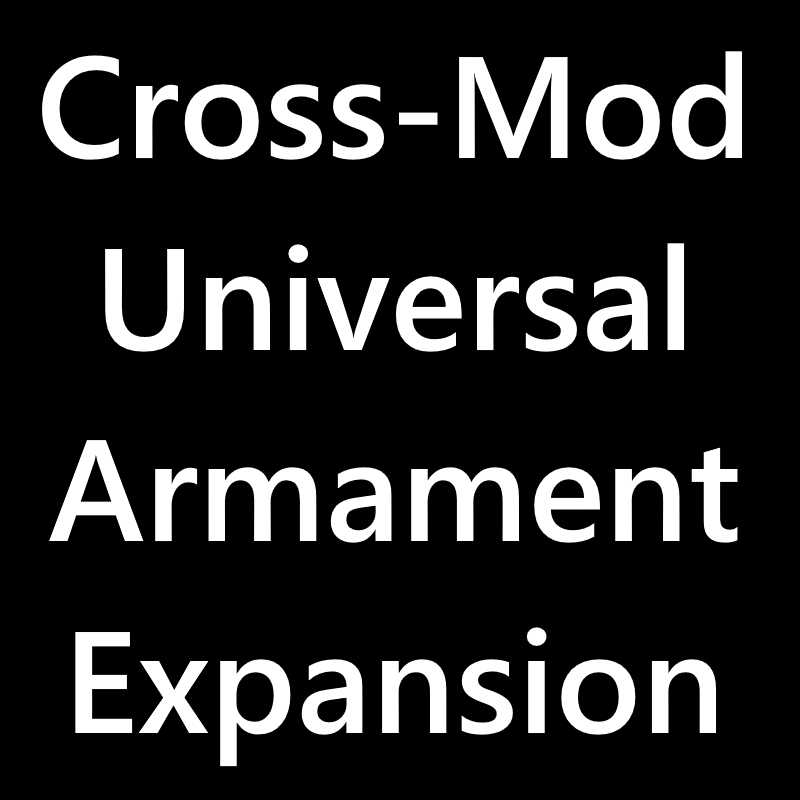
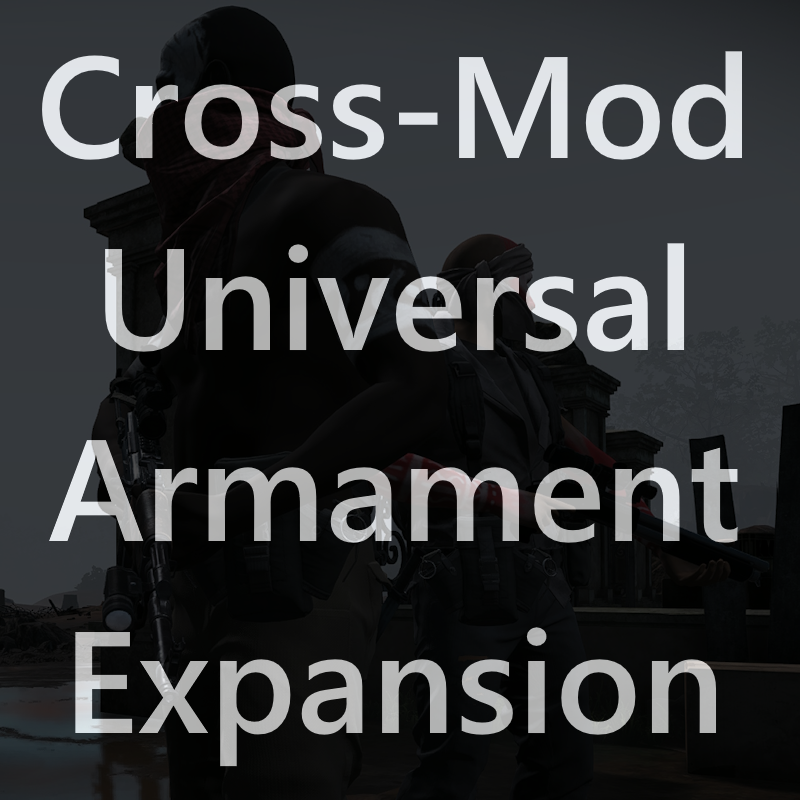
Update Preview image and Description

diff --git a/steamDescription.html b/steamDescription.html
@@ -13,24 +13,24 @@ The goal of this modification is to be [b]compatible[/b] with other modification
 [h2]Featuers:[/h2]
 [list]
     [*][b]Enemies get new weapon and armor of similar strength[/b]
-    [*][b]Weapons and Armor from other modifications are automatically added to pool of avaiable wepons[/b](e.g. Tons of Guns or Masters of War)
-    [*][b]Robust attachements system. Weapons are granted attachements matching adjusted enemy level. At higher level enemeis will have more and more powerful attachements[/b]
+    [*][b]Weapons and Armor from other modifications are automatically added to the pool of available weapons[/b](e.g. Tons of Guns or Masters of War)
+    [*][b]Robust attachements system. Weapons are granted attachments matching adjusted enemy level. At higher level, enemies will have more and more powerful attachments [/b]
     [*][b]Works with old saves, can be disabled at anypoint[/b]
     [*][b][Configuration option] Strength of new armaments can be adjusted[/b]
-    [*][b]Armaments condition (how much they are damaged) matches the condition of orginal loadout[/b]
-    [*][b]Mod uses drop chnace logic from base game[/b](Most mods that modife drop chnace are compatible)
+    [*][b]Armaments condition (how much they are damaged) matches the condition of the original loadout[/b]
+    [*][b]Mod uses drop chance logic from base game[/b](Most mods that modify drop chance are compatible)
     [*][b][Configuration option] Enemies get extra Handgun[/b](Usefull for integration with mods that change Handgun logic e.g. Rato's Overhaul)
     [*][b][Configuration option] Enemies get extra Grenades[/b]
-    [*][b]Night granades(flares etc) are only distributed during a night and in underground sectors[/b]
+    [*][b]Night grenades(flares etc) are only distributed during a night and in underground sectors[/b]
     [*][b]Heavy Weapons are distributed based on ammunition type[/b](RocketMan still shoots rockets, Montar Enemy still use Montar-like weapons)
-    [*][b]Mod does not affect unique armaments[/b](e.g.[spoiler] Pieree won't lose his unique machete [/spoiler])
+    [*][b]Mod does not affect unique armaments[/b](e.g.[spoiler] Pierre won't lose his unique machete [/spoiler])
 [/list]
 
 [h2]C-UAE vs Random Enemy Weapons[/h2]
 
-[b]C-UAE[/b] distributes all avaiable weapons among all enemy fractions while [b]REW[/b] provides more structer distribution where all weapons were picked by hand to be distributed for specific fractions only. This difrence leads to multiple consequeces. E.g. in REW weapons from mods which don't support REW won't be distributed at all but in C-UAE Weapons that are not configured to be avaiable in Bobby Ray's won't be distributed
+[b]C-UAE[/b] distributes all available weapons among all enemy fractions while [b]REW[/b] provides a more structured distribution where all weapons are picked by hand to be distributed for specific fractions only. This difference leads to multiple consequences. E.g. in REW weapons from mods that don't support REW won't be distributed at all but in C-UAE Weapons that are not configured to be available in Bobby Ray's won't be distributed
 
-[b]Configuration options[/b] allows to disable wepaon replacement enabling players to use logic for weapons for [b]REW[/b] and the rest of the featuers of C-UAE
+[b]Configuration options[/b] allow to disable weapon replacement enabling players to use logic for weapons for [b]REW[/b] and the rest of the features of C-UAE
 
 [h2]Recommended mods to use with C-UAE[/h2]
 
@@ -41,7 +41,7 @@ The goal of this modification is to be [b]compatible[/b] with other modification
     [*][b][url=https://steamcommunity.com/sharedfiles/filedetails/?id=3023672178] Tons of Guns [/url][/b] Note: new weapons(a lot of them)
 [/list]
 
-[b]Alternative balance (alongsite with more arnamanets)[/b]
+[b]Alternative balance (alongside with more armaments)[/b]
 
 [list]
     [*][b][url=https://steamcommunity.com/sharedfiles/filedetails/?id=3021320057] Rato's Gameplay Balance and Overhaul 3 [/url][/b] Note: new weapons logic
@@ -52,17 +52,17 @@ The goal of this modification is to be [b]compatible[/b] with other modification
 
 Note: [b]BCE[/b] and [b]Timmeh's[/b] Weapon are changing prices of vanilla weapons and are not balanced for vanilla prices so they will not work with ToG and/or MoW
 
-Don't use all mods from above lists together. For information which mods can be used with which related to the particualr mod's description
+Don't use all mods from the above lists together. For information on which mods can be used with which related to the particular mod's description
 
-For vanilla gameplay expirence use ToG and/or MoW
+For a vanilla gameplay experience use ToG and/or MoW
 
 [h2]How does it do[/h2]
 Whenever players enter a sector all enemies are scanned and a profile of their [b]level[/b], [b]affiliation[/b], and [b]loadout[/b] is created. This profile then is used to generate new weapons and armor. Mod uses [b]Cost[/b] property of items to access the items of similar strength.
 
 [h3]Avaiable Armaments Logic[/h3]
-C-UAE is build based on in game system of Cost and Bobby Ray's CanAppearInShop property. So only armaments that can appear in the shop are distributed to enemies.
+C-UAE is built based on in game system of Cost and Bobby Ray's CanAppearInShop property. So only armaments that can appear in the shop are distributed to enemies.
 
-This way mod automatically filters out all left over, unfinised or quest items. Unfinised and test items can be found in both the Vanilla game as well as in some popular weapon mods.
+This way mod automatically filters out all leftover, unfinished, or quest items. Unfinished and test items can be found in both the Vanilla game as well as in some popular weapon mods.
 
 [h3]Weapons[/h3]
 New weapons are generated of the same type. Based on the enemy level, affiliation, and the cost of the original weapon, the mod finds the proper weapon cost range and gives a random weapon from that range.
@@ -75,23 +75,23 @@ Additionally, if the original loadout has free spots left and there was no Handg
 Armor follows a similar logic to weapons. Based on the enemy level, affiliation, and original armor new armor is spawned.
 
 [h3]Uniques[/h3]
-Enemies can't get unique weapons like Golden Gun. But also enemies who wield unique weapons or armor will keep them. For exmaple enemeis with "Shiny and Chrome Helmet" will keep it but thier weapon and other armor pieces will get replace acording to the mod logic.
+Enemies can't get unique weapons like Golden Gun. But also enemies who wield unique weapons or armor will keep them. For example, enemies with "Shiny and Chrome Helmet" will keep it but their weapon and other armor pieces will get replaced according to the mod logic.
 
 [h2]Configuration options[/h2]
 [list]
-    [*][b]Replace Weapons[/b] When enabled, replaces orginal enemy weapons with new ones. Allows to use C-UAE along site Random Enemy Weapons mod which provides difrent way of distributing weapons in Grand Chien.
-    [*][b]Replace Armor[/b] When enabled, replaces orginal enemy armor with new ones.
+    [*][b]Replace Weapons[/b] When enabled, replace original enemy weapons with new ones. Allows to use C-UAE along site Random Enemy Weapons mod which provides different way of distributing weapons in Grand Chien.
+    [*][b]Replace Armor[/b] When enabled, replace the original enemy armor with new ones.
     [*][b]Extra Handgun[/b] If the original loadout has free spots left and there is no Handgun the enemy will get an extra Handgun.
     [*][b]Extra Grenades Count[/b] If the original loadout has free spots left and there is no Grenade the enemy will get an extra Grenade of this count. Setting it to 0 causes no extra grenades.
     [*][b]Extra Grenades Chance[/b] modifies the chance an enemy will get extra granades.
-    [*][b]Armament Strength Factor[/b] dificulty adjustement. Negative values cause the cost range to be closer to the cheapest armaments. Positive values make the cost range to be closer to expensive armaments. Note: orginal loadout is always within the cost range.
+    [*][b]Armament Strength Factor[/b] dificulty adjustement. Negative values cause the cost range to be closer to the cheapest armaments. Positive values make the cost range to be closer to expensive armaments. Note: The original loadout is always within the cost range.
     [*][b]Allow Alternative Weapon Type[/b] alternative version of weapon generation. Handguns can randomly be upgraded to SMGs, SMGs to ARs, and ARs to LMG or Sniper Rifles. 
-    [*][b]Grenades Drop Chance[/b] Percentage drop chance of grenades gnerated by C-UAE. Base game is 5 percentage, set to match your other drop mod configuration. All other items other then grenades have proper drop chance that will inharate from base game or your mod of choice.
+    [*][b]Grenades Drop Chance[/b] Percentage drop chance of grenades gnerated by C-UAE. The base game is 5 percent, set to match your other drop mod configuration. All other items other than grenades have a proper drop chance that will be inherited from the base game or your mod of choice.
 [/list]
 
 [h2]Special compatibility options for modders[/h2]
 
-After discussing with fellow modders I decied to add to C-UAE two entrypoints desingned to support special compatibility cases. Read more in the [b]Discussions[/b] section.
+After discussing with fellow modders I decided to add to C-UAE two entrypoints designed to support special compatibility cases. Read more in the [b]Discussions[/b] section.
 
 [h2]Notes[/h2]
 [list]
@@ -100,5 +100,5 @@ After discussing with fellow modders I decied to add to C-UAE two entrypoints de
     [*]Works with all saves. Will not change enemies in the middle of a fight.
     [*]Source code is available at [url=https://github.com/lucekdudek/C-UAE]GitHub[/url]
     [*]Does not affect weapons used in auto-resolve battles therefore, it does not affect drop from said battles
-    [*]Dose not work with [b]New weapons of combinations of the original model[/b] as it was not updated to work with Bobby Ray's update
+    [*]Does not work with [b]New weapons of combinations of the original model[/b] as it was not updated to work with Bobby Ray's update
 [/list]
